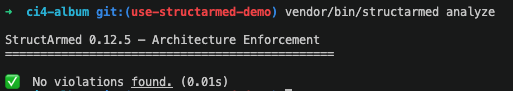
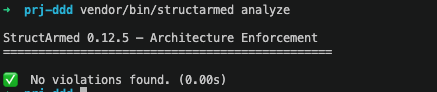
screenshot

diff --git a/README.md b/README.md
@@ -20,13 +20,9 @@
 
 StructArmed turns architecture decisions into executable checks. Start with presets for PSR, MVC, or DDD projects, then tune or extend the rules in native PHP.
 
-<table>
-<tr>
-<td>
-    <img src="./docs/assets/structarmed-showoff.png" alt="StructArmed violation output" width="1180">
-</td>
-</tr>
-</table>
+<p align="center">
+    <img src="./docs/assets/structarmed-showoff.png" alt="StructArmed violation">
+</p>
 
 ## Documentation
 

diff --git a/docs/quick-start.md b/docs/quick-start.md
@@ -64,7 +64,7 @@ vendor/bin/structarmed analyze
 
 If violations are found, StructArmed reports each one:
 
-<figure class="doc-screenshot doc-screenshot--wide">
+<figure class="doc-screenshot">
     <img alt="StructArmed violation output" src="{{ '/assets/structarmed-showoff.png' | relative_url }}">
 </figure>
 